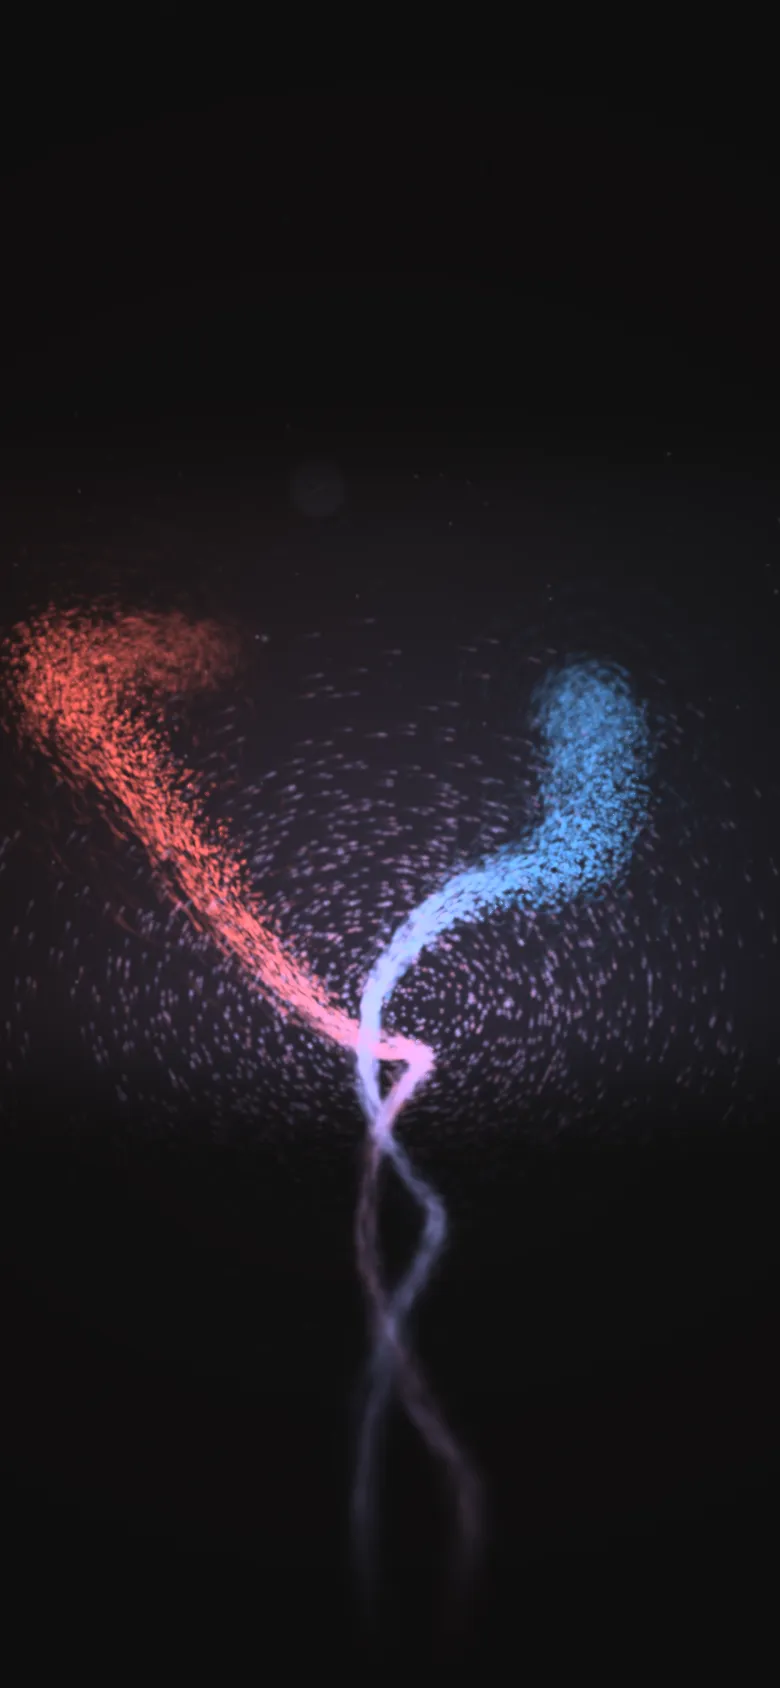
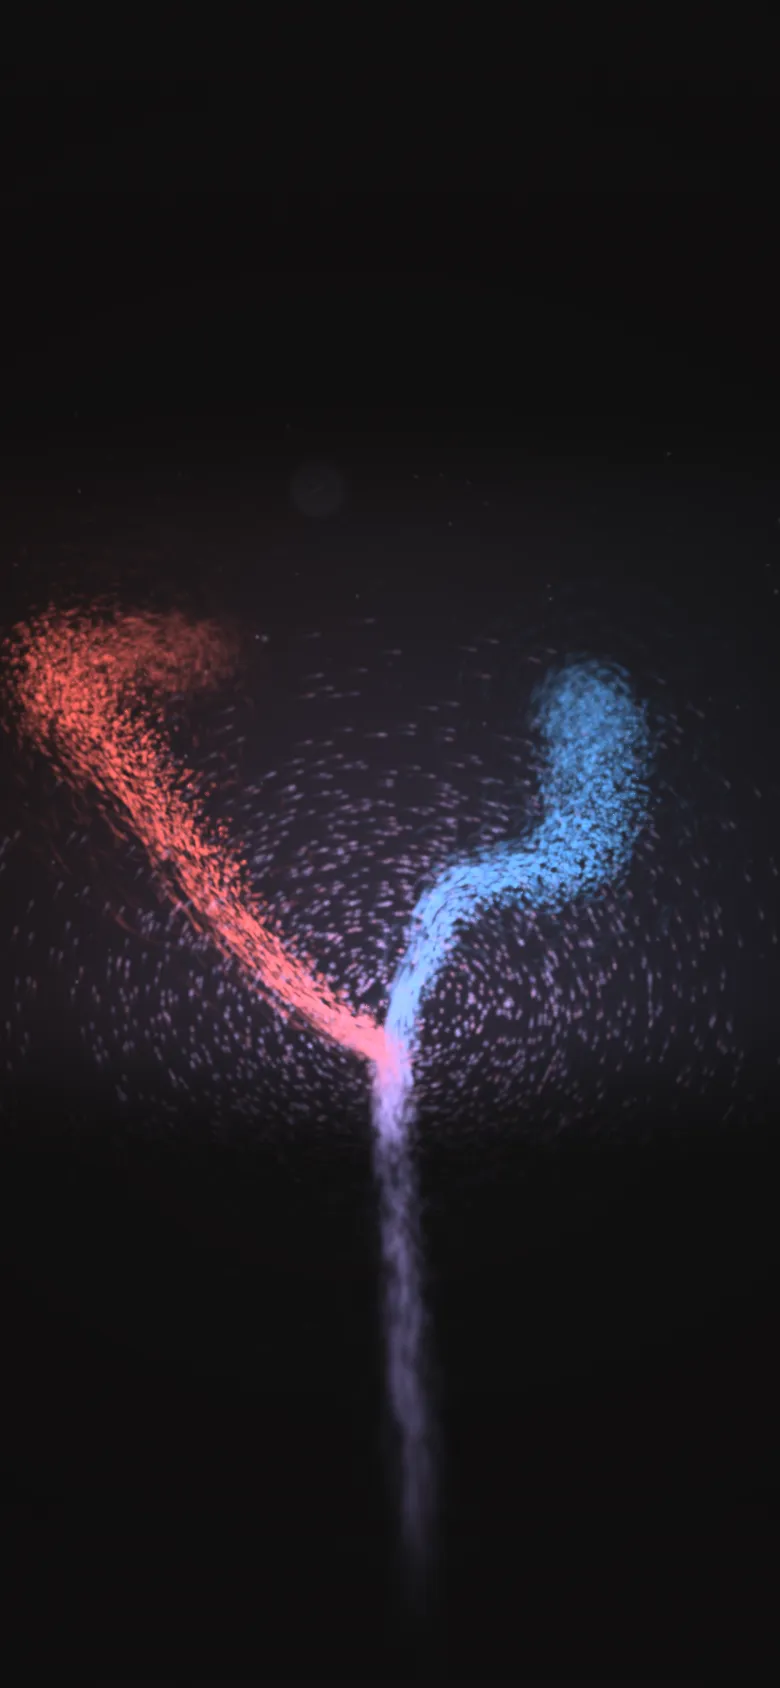
Scene: the strands converge into one purple cord; a more see-through title bar
- Landing: red and blue stay distinct through the knot (a purple tinge
  only) and fuse into one purple cord further down. The fuse point
  drifts slowly along the braid, and around it the strands tangle:
  they wind round each other unevenly, wander and fray a little. On
  narrow layouts it sits nearer the knot, above the copy's veil.
- Last window: toward the right the two strands zip into one purple
  rope. The join follows the band up the screen (apart as it enters,
  nearly all one rope as it leaves); the camera stays still and the
  flow keeps running forward into it. The crossings' glows fade inside
  the join. With motion off it shows the middle state.
- Title bar: 70% / 76% page colour over a 22 px blur (was 90% / 92%
  over 14 px). Its secondary text is one Flexoki step stronger
  (base-400 / base-700), so it keeps at least 4.5:1 over the scene's
  red and blue.
- Recaptured the landing and last-window stills; README updated.

Changed region(s): [[0.2769, 0.4929, 0.7077, 0.9242], [0.5846, 0.8626, 0.6154, 0.9242]]

diff --git a/assets/js/scene/v1.js b/assets/js/scene/v1.js
@@ -1,8 +1,11 @@
 // The world of the home page, and V1 "Pass-through", its landing.
 //
 // Two currents, red (the red team) and blue (the blue team), sweep in from far upstream as wide streams of helical
-// flow lines, converge and twist into a tight braid that turns purple where they meet. The knot is at the origin, the
-// braid runs down -z, the red arm comes in from +x and the blue one from -x.
+// flow lines, converge and twist into a tight braid, red and blue still, with a purple tinge where they meet; further
+// down, the two strands fuse into one purple cord. The fuse point drifts slowly along the braid, and around it the
+// strands tangle: they wind round each other unevenly, wander and fray a little. The knot is at the origin, the braid
+// runs down -z, the red arm comes in from +x and the blue one from -x. param (uP.w) is 1 on narrow layouts, where the
+// copy's veil covers the braid further down, so the strands fuse nearer the knot (FUSE).
 // - Startup: every particle starts scattered (4 to 11 units from its place) and converges into the flow, fading in
 //   on the way, staggered by its distance from the knot, so the braid draws itself from the knot outward along both
 //   arms. It is driven by the intro clock, so a page without the intro shows the assembled flow.
@@ -11,30 +14,50 @@
 //   one between the name and the copy on portrait screens.
 // - The strands (uP.z = 1, the last window): the two currents as one calm braid seen from the side, along x. Each
 //   strand is a wide, soft cloud of fibres around its centreline; red stays red and blue stays blue between the
-//   crossings, and purple glows only where they cross. The flow along them and the twist are slow (STRANDS), and
-//   both are functions of the time alone.
+//   crossings, and purple glows only where they cross. Toward +x they zip into one purple rope: the helix narrows and
+//   both turn purple. The join follows the window across the screen (param, uP.w: 0 as it enters at the bottom, 1 as
+//   it leaves at the top), from beyond the right edge to past the middle (ZIP), so the strands zip together as the
+//   page scrolls on. The flow along them (+x, into the join) and the twist are slow (STRANDS), and both are functions
+//   of the time alone.
 //
 // Every particle is derived from its id and the time (see gl.js for the Pt struct, hash and uniforms), so there are
 // no buffers. Ink slots: 0 red, 1 red (second), 2 blue, 3 blue (second), 4 purple, 5 dust.
-import { makePath, blendKeys, rig, smooth } from "./math.js";
+import { makePath, blendKeys, rig, smooth, mix } from "./math.js";
 
 // The strands' braid: angular frequency along x (crossings every pi / w units), twist (rad/s, the crossings drift
 // along +x at twist / w units/s), flow along the strands (units/s), helix radius and length.
 export const STRANDS = { w: 0.55, twist: 0.12, flow: 0.3, radius: 1.25, length: 46 };
+// The landing's fuse point (z): at rest on wide and on narrow layouts, and the half-width of the fuse.
+const FUSE = { z: -4.3, narrow: -1.5, half: 1.4 };
+// The strands' join: it spans x - j in [a, b], with j going from enter to leave as the window crosses the screen.
+const ZIP = { a: -2, b: 3.5, enter: 9, leave: -5 };
+// How far the strands have joined at x (0 apart .. 1 one rope), for the window at k (0 entering .. 1 leaving): the
+// shader's zip(), for the crossings' glows (windows.js).
+export const zipAt = (x, k) => smooth(ZIP.a, ZIP.b, x - mix(ZIP.enter, ZIP.leave, k));
 const f1 = (v) => v.toFixed(4);
 const GLSL = `
 const float ZT=44.,ZL=88.;
 const float SW=${f1(STRANDS.w)},ST=${f1(STRANDS.twist)},SV=${f1(STRANDS.flow)},SA=${f1(STRANDS.radius)},SL=${f1(STRANDS.length)};
+const float FZ=${f1(FUSE.z)},FN=${f1(FUSE.narrow)},FH=${f1(FUSE.half)};
+const float ZA=${f1(ZIP.a)},ZB=${f1(ZIP.b)},ZE=${f1(ZIP.enter)},ZX=${f1(ZIP.leave)};
 // 1 below a, 0 above b (smoothstep with its edges reversed is undefined in GLSL, and some drivers take that literally)
 float fall(float a,float b,float x){return 1.-smoothstep(a,b,x);}
 float twist(float z){return z<0.?1.2*z:1.6*(1.-exp(-z/3.));}
-vec3 ctr(float z,float k,out float w,out float S){
+// The fuse point at time t: it drifts on two slow sines that never quite repeat (less on narrow layouts).
+float fuseZ(float t){return mix(FZ,FN,uP.w)+mix(1.,.6,uP.w)*(.9*sin(.23*t)+.5*sin(.37*t+1.3));}
+// Strand k's centreline at z, its width w, its spread S (0 the tight braid .. 1 far upstream), how far it has fused
+// (m: 0 two strands .. 1 one cord) and the tangle around the fuse point (g: 1 at it).
+vec3 ctr(float z,float k,float t,out float w,out float S,out float m,out float g){
   S=pow(max(smoothstep(-1.,26.,z),1e-12),.6);
-  float R=mix(.2,6.4,S);
-  float th=twist(z)-1.28+k*3.14159265;
+  float zf=fuseZ(t),dz=(z-zf)/2.6;
+  m=fall(zf-FH,zf+FH,z);
+  g=exp(-dz*dz);
+  float R=mix(.2,6.4,S)*(1.-m);
+  float th=twist(z)-1.28+k*3.14159265+g*(.75*sin(.7*t+.6*z)+.35*sin(.43*t-.9*z+k));
   vec2 c=vec2(cos(th),sin(th)*mix(1.,.38,S))*R;
   c+=vec2(1.4*sin(.09*z+.3),.8*sin(.06*z+1.4))*S*S;
-  w=mix(.11,1.85,S);
+  c+=g*.09*vec2(sin(.9*z+.8*t+k*2.4),cos(.7*z-.6*t+k*1.3));
+  w=mix(.11,1.85,S)*(1.+.35*m);
   return vec3(c,z);
 }
 Pt braid(uint id,vec4 h,float t){
@@ -43,14 +66,14 @@ Pt braid(uint id,vec4 h,float t){
   if(f<.8){
     float k=float(id&1u);
     float z=ZT-mod(h.x*ZL+(1.2+1.1*h.y)*t,ZL);
-    float w,S;
-    vec3 c=ctr(z,k,w,S);
+    float w,S,m,g;
+    vec3 c=ctr(z,k,t,w,S,m,g);
     float halo=step(.78,fract(h.z*7.31));
-    float rr=w*sqrt(max(-log(1.-.96*h.z),0.))*.5*(1.+1.5*halo);
+    float rr=w*sqrt(max(-log(1.-.96*h.z),0.))*.5*(1.+1.5*halo)*(1.+.6*g);
     float ph=6.2832*h.w+1.7*z*(1.-.65*S);
     o.p=c+vec3(cos(ph),sin(ph),0.)*rr;
     vec3 base=k<.5?mix(uInk[0],uInk[1],h.y*h.y*.8):mix(uInk[2],uInk[3],h.y*.9);
-    o.c=mix(base,uInk[4],fall(-2.5,5.,z)*(h.y<.22?.4:.92));
+    o.c=mix(base,uInk[4],max(.5*fall(-2.5,5.,z)*(h.y<.22?.4:1.),m));
     float core=exp(-rr*rr/(w*w)*1.6);
     o.a=(.28+.72*core)*(1.-.55*halo)*(1.+.9*exp(-z*z/5.))*mix(.42,1.,S)*smoothstep(-44.,-34.,z)*fall(32.,44.,z);
     o.s=.019*(.7+.6*h.z);
@@ -72,6 +95,8 @@ Pt braid(uint id,vec4 h,float t){
   }
   return o;
 }
+// 0 where the strands run apart, 1 where they have zipped into one (zipAt in JS)
+float zip(float x){return smoothstep(ZA,ZB,x-mix(ZE,ZX,uP.w));}
 Pt strands(uint id,vec4 h,float t){
   Pt o;
   float f=float(id)/uN;
@@ -79,12 +104,15 @@ Pt strands(uint id,vec4 h,float t){
   if(f<.86){
     float x=(fract(h.x+t*SV*(.8+.4*h.y)/SL)-.5)*SL;
     float ph=SW*x-ST*t+k*3.14159265;
-    float rr=.6*sqrt(max(-log(1.-.97*h.z),0.));
+    float m=zip(x);
+    // joined, the helix narrows to a thin twist and the fibres draw in: one rope
+    float A=SA*mix(1.,.16,m);
+    float rr=.6*mix(1.,.62,m)*sqrt(max(-log(1.-.97*h.z),0.));
     float a=6.2832*h.w+1.3*x-.2*t;
-    o.p=vec3(x,SA*sin(ph),.9*SA*cos(ph))+vec3(0.,cos(a),sin(a))*rr;
+    o.p=vec3(x,A*sin(ph),.9*A*cos(ph))+vec3(0.,cos(a),sin(a))*rr;
     vec3 base=k<.5?mix(uInk[0],uInk[1],h.y*.6):mix(uInk[2],uInk[3],h.y*.7);
     float s=sin(ph);
-    o.c=mix(base,uInk[4],.88*exp(-s*s/.2));
+    o.c=mix(base,uInk[4],max(.88*exp(-s*s/.2)*(1.-m),.94*smoothstep(.15,.85,m)));
     o.a=.5*(.3+.7*exp(-rr*rr*2.4))*fall(SL*.5-5.,SL*.5,abs(x));
     o.s=.019*(.7+.6*h.z);
   }else if(f<.93){
@@ -93,7 +121,7 @@ Pt strands(uint id,vec4 h,float t){
     vec3 r=vec3(h.y,h.z,fract(h.w*7.3))-.5;
     o.p=vec3(x,0.,0.)+normalize(r+1e-3)*.75*sqrt(max(-log(1.-.95*fract(h.w*3.7)),0.));
     o.c=mix(uInk[4],k<.5?uInk[0]:uInk[2],.15*h.y);
-    o.a=.36*exp(-dot(o.p.yz,o.p.yz)*.6)*fall(SL*.5-5.,SL*.5,abs(x));
+    o.a=.36*exp(-dot(o.p.yz,o.p.yz)*.6)*fall(SL*.5-5.,SL*.5,abs(x))*(1.-zip(x));
     o.s=.018;
   }else{
     float x=(fract(h.x+t*SV*.5/SL)-.5)*SL;

diff --git a/assets/js/scene/windows.js b/assets/js/scene/windows.js
@@ -4,15 +4,17 @@
 // - the landing, with its own camera (the intro, then rest with pointer parallax and a slow drift), and composition
 //   veils that keep its copy legible: a column under the copy on wide screens, bands above and below on narrow ones;
 // - the full-bleed windows between the chapters (.window), each with its own camera and subject: W1 the two
-//   currents side by side, W2 the red current, W3 the blue one, W4 the two strands twined, purple where they cross.
+//   currents side by side, W2 the red current, W3 the blue one, W4 the two strands twined, purple where they cross,
+//   zipping into one purple rope as the band rises (the join follows the band's place on the screen, see v1.js).
 //   As a band crosses the screen the cameras of W1 to W3 only crane (move vertically, across the flow). A camera
 //   moving along the flow would make the particles seem to run backwards, as if the scroll rewound time; the
 //   simulation time itself only ever moves forward. W4's camera holds still: craning over a twisted braid changes the
-//   angle on it, which makes its twist seem to turn back as the page scrolls.
+//   angle on it, which makes its twist seem to turn back as the page scrolls. (Its join does move with the scroll:
+//   it changes the shape, not the time, and the flow keeps running into it.)
 // createWindows() returns the views for the scene (index.js, opts.views) and what they depend on: visible() (is any
 // frame on screen), vignette(theme) and layout() (for measurements); update() re-measures, destroy() stops.
 import { clamp, mix, smooth } from "./math.js";
-import { STRANDS } from "./v1.js";
+import { STRANDS, zipAt } from "./v1.js";
 
 // A pose as the band enters (a) and as it leaves (b), framed by horizontal field of view (hfov), so a window keeps
 // its composition from a phone to a wide screen. portrait: the same for narrow screens, where a band is close to
@@ -30,10 +32,14 @@ const WINDOWS = [
   },
 ];
 
-// W4's glows: a soft purple one at each of the three crossings nearest the middle, where they are at flow time ft.
-function crossings(ft) {
+// W4's glows: a soft purple one at each of the three crossings nearest the middle, where they are at flow time ft,
+// fading where the strands have zipped into one (k: the join's progress).
+function crossings(ft, k) {
   const S = Math.PI / STRANDS.w, x0 = ((((STRANDS.twist * ft) / STRANDS.w) % S) + S) % S;
-  return [-1, 0, 1].map((j) => ({ p: [x0 + (j - 0.5) * S, 0, 0], r: 0.13, a: { dark: 0.08, light: 0.055 }, ink: 4 }));
+  return [-1, 0, 1].map((j) => {
+    const x = x0 + (j - 0.5) * S, o = 1 - zipAt(x, k);
+    return { p: [x, 0, 0], r: 0.13, a: { dark: 0.08 * o, light: 0.055 * o }, ink: 4 };
+  });
 }
 const vmix = (a, b, k) => a.map((x, i) => mix(x, b[i], k));
 function poseMix(a, b, k) {
@@ -88,8 +94,10 @@ export function createWindows({ hero, frames, header, reduced }) {
     if (!L) measure();
     const s = sy(), { W, H } = e;
     const out = [];
+    // the braid's param: 1 on narrow layouts, where the copy's veils sit over the braid's lower part (v1.js)
+    const narrow = L.desk ? 0 : 1;
     if (L.hero.y1 - s > 0) {
-      out.push({ id: "hero", rect: { x0: -400, y0: L.hero.y0 - 400 - s, x1: W + 400, y1: L.hero.y1 - s, f: 0.24 * H }, veil: heroVeil(s, W) });
+      out.push({ id: "hero", rect: { x0: -400, y0: L.hero.y0 - 400 - s, x1: W + 400, y1: L.hero.y1 - s, f: 0.24 * H }, veil: heroVeil(s, W), param: narrow });
     }
     L.windows.forEach((r, i) => {
       const y0 = r.y0 - s, y1 = r.y1 - s, h = y1 - y0;
@@ -98,13 +106,16 @@ export function createWindows({ hero, frames, header, reduced }) {
       const S = !L.desk && P.portrait ? P.portrait : P;
       // where the band is: 0 entering at the bottom, 1 leaving at the top (the middle under reduced motion)
       const p = clamp(((y0 + y1) / 2 - H / 2) / (H / 2 + h / 2), -1, 1);
-      const pose = poseMix(S.a, S.b, reduced.matches ? 0.5 : (1 - p) / 2);
+      const k = reduced.matches ? 0.5 : (1 - p) / 2;
+      const pose = poseMix(S.a, S.b, k);
       const hf = pose.hfov * (L.desk || P.portrait ? 1 : 0.74);
       pose.fov = (2 * Math.atan(Math.tan((hf * Math.PI) / 360) / (W / H)) * 180) / Math.PI;
       // the lens shift keeps the subject centred in the band, wherever the band is on the screen
       pose.shift = [0, 1 - (y0 + y1) / H];
-      const glows = typeof P.glows === "function" ? P.glows(e.ft) : P.glows;
-      out.push({ id: `w${i + 1}`, rect: { x0: -400, y0, x1: W + 400, y1, f: 0.34 * h }, pose, form: P.form || 0, glows, trail: P.trail });
+      const glows = typeof P.glows === "function" ? P.glows(e.ft, k) : P.glows;
+      // the strands' param is the band's progress (their join follows it), the braid's the layout
+      const param = P.form === 1 ? k : narrow;
+      out.push({ id: `w${i + 1}`, rect: { x0: -400, y0, x1: W + 400, y1, f: 0.34 * h }, pose, form: P.form || 0, param, glows, trail: P.trail });
     });
     return out;
   }

diff --git a/assets/js/scene/index.js b/assets/js/scene/index.js
@@ -14,11 +14,12 @@
 // stalls the main thread while the compositor reads the canvas back); onFail() reports a later failure (shaders, a
 // lost context). In all these cases the page keeps its CSS stills.
 //
-// Views (opts.views(env), every frame; env: { it, ft, T, W, H, theme }, W and H the canvas size in CSS px): a list of
-// { id, rect: { x0, y0, x1, y1, f } (where it shows, in canvas CSS px, feathered inside by f), veil, pose (a fixed
-// camera; without one, the landing's camera), form (0 the braid, 1 the strands), glows, trail }. Without opts.views
-// the whole canvas is the landing. opts.visible() says whether any view is on screen (otherwise the scene stops
-// after one empty frame); opts.vignette(theme, H) sets the background's vignette.
+// Views (opts.views(env), every frame; env: { it, ft, T, W, H, theme }, W and H the canvas size in CSS px): a list of {
+// id, rect: { x0, y0, x1, y1, f } (where it shows, in canvas CSS px, feathered inside by f), veil, pose (a fixed
+// camera; without one, the landing's camera), form (0 the braid, 1 the strands), param (the form's own setting, 0..1,
+// see v1.js), glows, trail }. Without opts.views the whole canvas is the landing. opts.visible() says whether any view
+// is on screen (otherwise the scene stops after one empty frame); opts.vignette(theme, H) sets the background's
+// vignette.
 //
 // Colours come from the container's CSS: --scene-bg, --scene-red, --scene-red-2, --scene-blue, --scene-blue-2,
 // --scene-purple, --scene-dust, and --scene-ink ("add" for light on dark, "ink" for ink on paper).
@@ -222,7 +223,7 @@ export function mount(container, opts = {}) {
       s.lens.set([pose.focus, pose.ap * dpr, pose.blur * dpr, dpr * sizeK(Math.min(level, STILL - 1))]);
       s.fog.set(world.fog);
       s.trail.set([tr.time, tr.width, tr.alpha[theme]]);
-      s.params.set([0, 0, v.form || 0, 0]);
+      s.params.set([0, 0, v.form || 0, v.param || 0]);
       setMask(s.mask, v.rect ? [v.rect] : null, v.veil, dpr, W, H);
       f.views.push(s);
       for (const g of v.glows || world.glows(it)) {

diff --git a/assets/css/layout.css b/assets/css/layout.css
@@ -12,18 +12,21 @@
 
 /* The title bar: wordmark at the left gutter; nav, search and theme toggle at the right. Pinned on every page; on
    the home page it arrives as the hero's name docks into the wordmark (home.css, js/dock.js). Its surface is frosted
-   glass: the page colour, mostly opaque (--header-bg), over a blur of what scrolls under it. The surface and the
-   blur sit on the bar itself, which sees the page behind it (a pseudo-element's backdrop would end at the bar,
-   which is a backdrop root: it has a view-transition name, and on home the dock fades it). Where backdrop-filter
-   is not supported the surface is near-opaque instead. The hairline (::before) gives the bar its edge. */
+   glass: the page colour at about three quarters (--header-bg) over a blur of what scrolls under it, so its colour
+   and movement come through softly. The bar's secondary text is a step stronger than on the page (--header-text-2),
+   so it keeps AA contrast over the scene's red and blue under the glass. The surface and the blur sit on the bar
+   itself, which sees the page behind it (a pseudo-element's backdrop would end at the bar, which is a backdrop root:
+   it has a view-transition name, and on home the dock fades it). Where backdrop-filter is not supported the surface
+   is near-opaque instead. The hairline (::before) gives the bar its edge. */
 .site-header {
   position: sticky;
   top: 0;
   z-index: 20;
   view-transition-name: site-header;
+  --text-2: var(--header-text-2);
   background: var(--header-bg);
-  -webkit-backdrop-filter: blur(14px) saturate(1.3);
-  backdrop-filter: blur(14px) saturate(1.3);
+  -webkit-backdrop-filter: blur(22px) saturate(1.7);
+  backdrop-filter: blur(22px) saturate(1.7);
 }
 @supports not ((backdrop-filter: blur(1px)) or (-webkit-backdrop-filter: blur(1px))) {
   .site-header { background: var(--header-solid); }

diff --git a/assets/css/tokens.css b/assets/css/tokens.css
@@ -123,8 +123,9 @@
   --gold: #d0a215;        /* yellow-400: star counts, 8.1:1 */
   --gold-sm: #d0a215;     /* yellow-400 for small text */
   --focus: #8b7ec8;       /* purple-400, 5.4:1 */
-  --header-bg: rgb(16 15 15 / 0.9);     /* the title bar's frosted surface (layout.css) */
+  --header-bg: rgb(16 15 15 / 0.7);     /* the title bar's frosted surface (layout.css) */
   --header-solid: rgb(16 15 15 / 0.97); /* and where it cannot be frosted */
+  --header-text-2: #9f9d96; /* base-400: the bar's secondary text, 4.8:1 or more over red or blue under the glass */
   --sel: rgb(139 126 200 / 0.32);
   --shadow: 0 40px 80px -40px rgb(0 0 0 / 0.8);
 
@@ -199,8 +200,9 @@
   --gold: #a87e00;        /* adj. yellow-600, still a yellow: 3.6:1 on bg, 3.3:1 on bg-2, large numerals only */
   --gold-sm: #8e6500;     /* adj. yellow-600 for small text, 5.1:1 on bg, 4.6:1 on bg-2 */
   --focus: #5e409d;       /* purple-600, 7.6:1 */
-  --header-bg: rgb(255 252 240 / 0.92); /* a little more on paper: nav text keeps 4.5:1 over dark or red content */
+  --header-bg: rgb(255 252 240 / 0.76); /* a little more on paper */
   --header-solid: rgb(255 252 240 / 0.97);
+  --header-text-2: #575653; /* base-700: 5.2:1 or more over red or blue under the glass */
   --sel: rgb(94 64 157 / 0.2);
   --shadow: 0 36px 70px -40px rgb(16 15 15 / 0.4);
 

diff --git a/README.md b/README.md
@@ -142,12 +142,14 @@ The files were made from the Google Fonts sources with fonttools (`varLib.instan
 Fonts latin range with the kern, liga, calt, locl, mark, mkmk, ccmp, rlig, tnum and case features; JetBrains Mono
 keeps kern, locl, mark, mkmk and ccmp only).
 
-**The landing and the scene.** The home page opens on a full-viewport landing: the name over a 3D scene of two
-currents of particles, red (the red team) and blue (the blue team). They sweep in from far away as wide streams,
-twist into a tight braid and turn purple, the colour of both, where they meet. The scene is raw WebGL2 with no
-library: every particle is computed in the vertex shader from its id and the time, so there are no vertex buffers,
-and a frame is a few uniforms and a few draw calls. Heads streak with their true screen motion, and depth of field,
-depth fog and short trails give the depth.
+**The landing and the scene.** The home page opens on a full-viewport landing: the name over a 3D scene of two currents
+of particles, red (the red team) and blue (the blue team). They sweep in from far away as wide streams and twist into a
+tight braid, still red and blue with a purple tinge where they meet. Further down the braid they fuse into one purple
+cord, the colour of both. The fuse point drifts slowly along the braid, and around it the two strands tangle: they wind
+round each other unevenly, wander and fray a little. On narrow screens, where the copy covers the lower part of the
+braid, they fuse nearer the knot. The scene is raw WebGL2 with no library: every particle is computed in the vertex
+shader from its id and the time, so there are no vertex buffers, and a frame is a few uniforms and a few draw calls.
+Heads streak with their true screen motion, and depth of field, depth fog and short trails give the depth.
 
 The scene is one canvas, fixed behind the page, and it shows in exactly five frames: the landing, and four
 full-bleed windows between the chapters (`.window`, from `layouts/_partials/window.html`), each a view of the same
@@ -156,13 +158,16 @@ chapters themselves sit calmly on the page colour and nothing in them moves.
 
 - W1, after Offensys: the two currents side by side; W2, between Speaking and Open source: the red current; W3,
   before Writing: the blue one.
-- W4, before About: the end of the story. The two currents as one calm braid seen from the side: two wide, soft
-  strands crossing along the horizontal axis, red and blue between the crossings and a soft purple glow only where
-  they cross. The flow along them (about 0.3 units/s) and the twist (0.12 rad/s) are slow: at 390 px wide its
-  particles move about 10 px/s, against about 180 px/s for the braid this window showed before.
-- As a window crosses the screen the cameras of W1 to W3 only crane (move vertically, across the flow), and W4's
-  holds still (craning over a twisted braid would make its twist seem to turn back). The particles' time only ever
-  moves forward; scrolling moves cameras, never time, so nothing runs backwards when the page scrolls up.
+- W4, before About: the end of the story. The two currents as one calm braid seen from the side: two wide, soft strands
+  crossing along the horizontal axis, red and blue between the crossings and a soft purple glow only where they cross.
+  Toward the right they zip into one purple rope, and the join follows the window up the screen: as the band enters at
+  the bottom the strands are apart, by the middle the right half has joined, and as it leaves it is nearly all one rope
+  (scrolling back up unzips them; with motion off it shows the middle state). The flow along them (about 0.3 units/s)
+  and the twist (0.12 rad/s) are slow: at 390 px wide its particles move about 10 px/s, against about 180 px/s for the
+  braid this window showed before.
+- As a window crosses the screen the cameras of W1 to W3 only crane (move vertically, across the flow), and W4's holds
+  still (craning over a twisted braid would make its twist seem to turn back). The particles' time only ever moves
+  forward; scrolling moves cameras and W4's join, never time, so nothing runs backwards when the page scrolls up.
 
 The particles are accumulated as ink and coverage and composited once (`assets/js/scene/gl.js`): the colour is the
 coverage-weighted mean of the inks, so a dense red region stays red and a dense blue one blue, and two inks only mix
@@ -203,6 +208,10 @@ elsewhere a `requestAnimationFrame` loop applies the same states. Only one of th
 On narrow screens, where the title bar's nav has a row of its own, that row appears only once the name has docked.
 With reduced motion there is no morph: the bar fades in once the name has gone. Without JavaScript the title bar is
 the usual pinned one, as on every other page.
+
+The bar's surface is frosted glass: the page colour at 70 % (76 % on paper) over a 22 px blur, so the colour and
+movement of what scrolls under it come through softly. Its secondary text (the nav links and tool icons) is one
+Flexoki step stronger than on the page (`--header-text-2`), so it keeps at least 4.5:1 over the scene's red and blue.
 
 `mount(container, options)` in `assets/js/scene/index.js` takes the frames to render (`views`, from `windows.js`) and
 returns `setScroll(progress)`, `setFocus(0..1)`, `setIntensity(0..1)`, `pause()`, `resume()`, `restyle()` and
